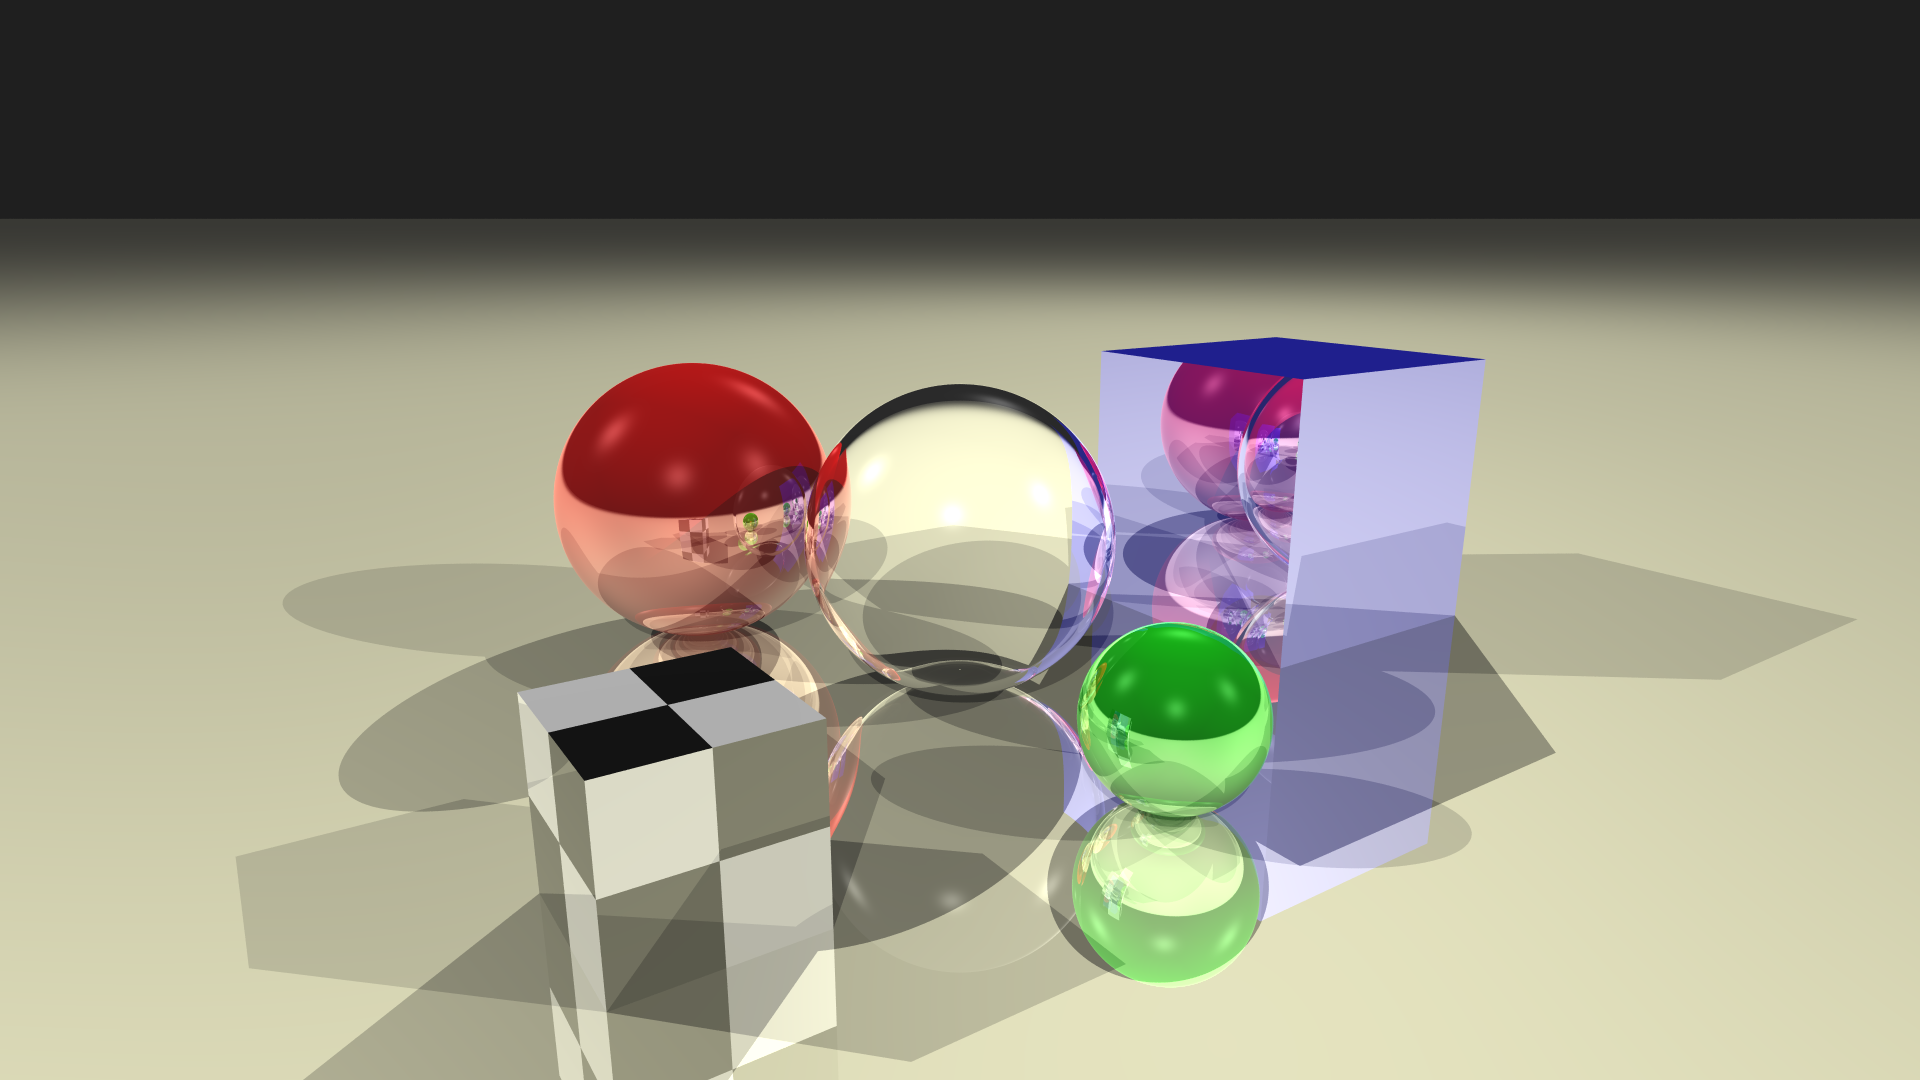
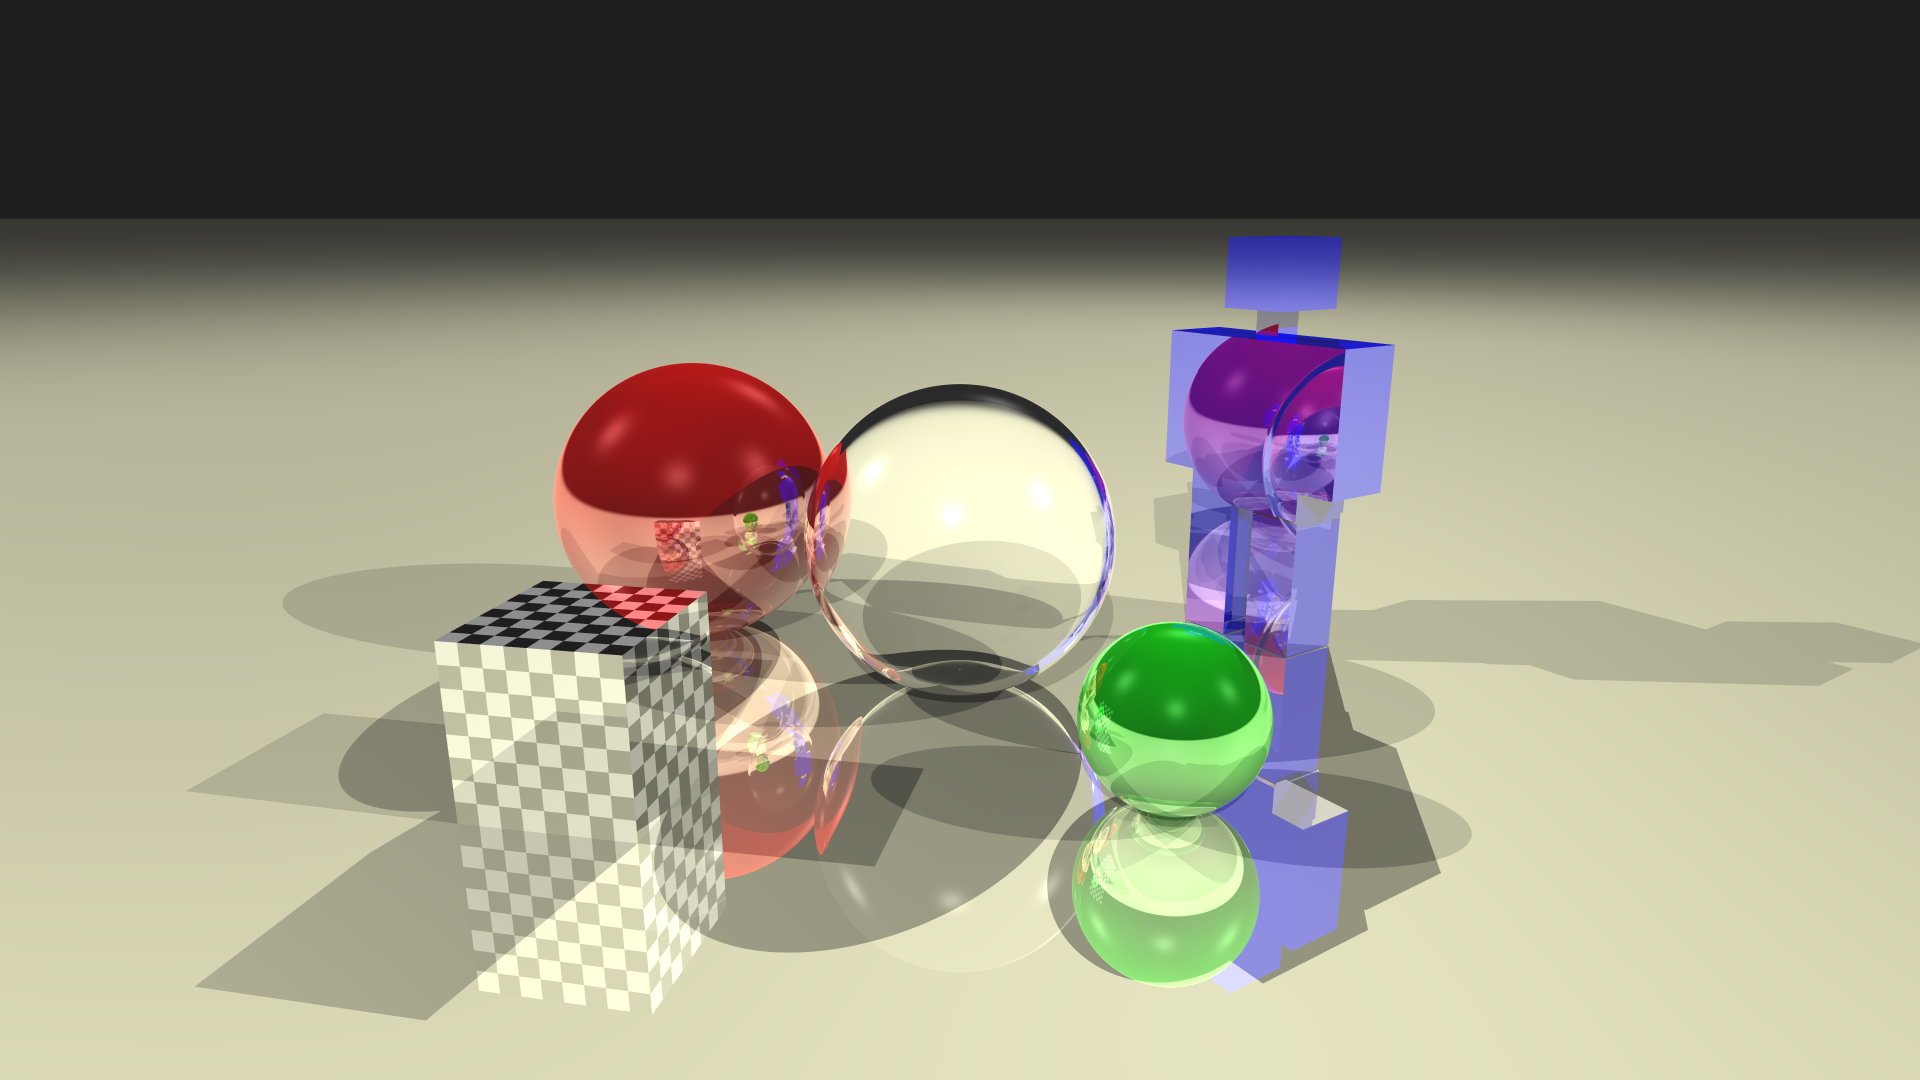
fix textures mapping incorrectly to geometry, update README.md, update example render

Changed region(s): [[0.0938, 0.2139, 1.0, 1.0]]

diff --git a/src/Main.java b/src/Main.java
@@ -1,5 +1,6 @@
 import light.Light;
 import material.*;
+import material.texture.Checker;
 import math.Vector3D;
 import object.*;
 import object.Object;
@@ -32,13 +33,12 @@ public class Main {
                 new Sphere(new Transform(new Vector3D(0, 0, -2), new Vector3D(0, 0, 0), new Vector3D(1, 1, 1)), 0.5D, new Glass(0.1D, 0.94)),
                 new Sphere(new Transform(new Vector3D(-0.5, 0, -3), new Vector3D(0, 0, 0), new Vector3D(1, 1, 1)), 0.5D, new Reflective(new Vector3D(1, 0, 0), 0.1D, 0.6D, 0.6D, 50, 0.2D, 0.617D, 2.63D)),
                 new Sphere(new Transform(new Vector3D(0, -0.25, -1), new Vector3D(0, 0, 0), new Vector3D(1, 1, 1)), 0.25D, new Reflective(new Vector3D(0, 1, 0), 0.1D, 0.6D, 0.6D, 50, 0.2D, 0.617D, 2.63D)),
-                //new Box(new Vector3D(1, -0.5, -1.5), new Vector3D(2, 0.5, -2.5), new Reflective(new Vector3D(0D, 0D, 1D), 0.1D, 0.4D, 0.5, 32, 0.3D, 0.177, 3.638)),
-                //new Box(new Vector3D(-1.5, -0.5, -1), new Vector3D(-1, 0, -1.5),  new Pattern(new Checker(2, 2, new Vector3D(0, 0, 0), new Vector3D(1, 1, 1)), 0.1D, 0.6D, 0.6D, 50, 0.6D, 2.485D, 3.433D)),
+                new Box(new Transform(new Vector3D(0.5, -0.25, -2.25), new Vector3D(0, 45, 0), new Vector3D(1, 1, 1)), new Vector3D(0.5, 0.5, 0.5), new TexturedMaterial(new Checker(8, 8, new Vector3D(0, 0, 0), new Vector3D(1, 1, 1)), 0.1D, 0.4D, 0.5, 32, 0.3D, 0.177, 3.638)),
                 new Plane(-0.5, new Vector3D(0, 1, 0), new Reflective(new Vector3D(255/255D, 253/255D, 208/255D), 0.1D, 0.6D, 0.5D, 4, 1, 0.617D, 2.63D)),
-                new Model(new Transform(new Vector3D(10, 10, -7), new Vector3D(-90, 0, 0), new Vector3D(0.1, 0.1, 0.1)), new Reflective(new Vector3D(0, 0, 1), 0.1D, 0.6D, 0.5D, 4, 1, 0.617D, 2.63D), Util.loadOBJ("./diamond.obj"), false)
+                new Model(new Transform(new Vector3D(10, 18, -8), new Vector3D(-90, 0, 0), new Vector3D(0.1, 0.1, 0.1)), new Reflective(new Vector3D(0, 0, 1), 0.1D, 0.6D, 0.5D, 4, 1, 0.617D, 2.63D), Util.loadOBJ("./man.obj"), false)
         };
 
         Scene scene = new Scene(camera, ambient, lights, objects, width, height);
-        scene.render("output.png", 1, 4, 8);
+        scene.render("output.png", 100, 16, 8);
     }
 }

diff --git a/src/Scene.java b/src/Scene.java
@@ -26,7 +26,7 @@ public class Scene {
     private final int width;
     private final int height;
     private static int threadCounter;
-    private static Lock lock = new ReentrantLock();
+    private static final Lock lock = new ReentrantLock();
 
     public Scene(Camera camera, Light ambient, Light[] lights, Object[] objects, int width, int height) {
         this.camera = camera;
@@ -82,7 +82,7 @@ public class Scene {
             printProgress();
         }
 
-        public void printProgress() {
+        private void printProgress() {
             lock.lock();
             threadCounter--;
             int progress = (int) (((((width * height) - threadCounter) / (double) (width * height))) * 100);

diff --git a/src/object/Object.java b/src/object/Object.java
@@ -47,6 +47,11 @@ public abstract class Object implements IObject {
         return new Vector3D(normalWS.x, normalWS.y, normalWS.z).normalize();
     }
 
+    public static Vector3D transformPointToOS(Vector3D point, Matrix4D inverseTransformMatrix) {
+        Vector4D normalWS = new Vector4D(point.x, point.y, point.z, 1);
+        Vector4D pointOS = normalWS.mult(inverseTransformMatrix);
+        return new Vector3D(pointOS.x, pointOS.y, pointOS.z);
+    }
     public Material getMaterial() {
         return material;
     }

diff --git a/src/material/texture/Texture.java b/src/material/texture/Texture.java
@@ -19,7 +19,7 @@ public class Texture {
     }
 
     public Vector3D textureAt(Object object, Vector3D point) {
-        Vector2D map = object.mapTexture(point);
+        Vector2D map = object.mapTexture(Object.transformPointToOS(point, object.getInverseTransformMatrix()));
         return getColorAt(map.x, map.y);
     }
 

diff --git a/README.md b/README.md
@@ -7,9 +7,56 @@ A simple yet powerful ray tracer implemented in Java. RayDream creates realistic
 ## Features
 
 - **Ray Tracing Basics:** Implements fundamental ray tracing algorithms, including ray-object intersection, reflection, refraction, and shading.
+- **Scene Description:** Define scenes by programmatically constructing objects and lights.
 - **Support for Basic Shapes:** Supports rendering of basic geometric shapes such as spheres and boxes.
+- **Model Support:** Supports rendering of models in the wavefront obj format.
 - **Materials and Textures:** Assign materials and textures to objects to add realism to a scene.
 - **Antialiasing:** Reduces aliasing artifacts with built-in sampling techniques.
+- **Parallel Rendering:** Utilizes multi-threading for faster rendering of complex scenes.
+
+## Usage
+RayDream is designed to be easy to use while still providing flexibility for advanced users. Here's a basic example of how to render a scene using RayDream:
+```java
+import light.Light;
+import material.*;
+import math.Vector3D;
+import object.*;
+import object.Object;
+
+import java.io.IOException;
+
+public class Main {
+    public static void main(String[] args) throws IOException {
+        int width = 1920;
+        int height = 1080;
+
+        Camera camera = new Camera(
+                new Vector3D(-2, 1, 1),
+                new Vector3D(0, 0, -2),
+                50,
+                width,
+                height
+        );
+
+        Light ambient = new Light(new Vector3D(), new Vector3D(1, 1, 1), 1);
+        Light[] lights = {
+                new Light(new Vector3D(-10, 10, -10), new Vector3D(1, 1, 1), 10D),
+                new Light(new Vector3D(-10, 10, 10), new Vector3D(1, 1, 1), 10D),
+                new Light(new Vector3D(10, 10, -10), new Vector3D(1, 1, 1), 10D),
+                new Light(new Vector3D(10, 10, 10), new Vector3D(1, 1, 1), 10D)
+        };
+
+        Object[] objects = new Object[]{
+                new Sphere(new Transform(new Vector3D(0, 0, -2), new Vector3D(0, 0, 0), new Vector3D(1, 1, 1)), 0.5D, new Glass(0.1D, 0.94)),
+                new Sphere(new Transform(new Vector3D(-0.5, 0, -3), new Vector3D(0, 0, 0), new Vector3D(1, 1, 1)), 0.5D, new Reflective(new Vector3D(1, 0, 0), 0.1D, 0.6D, 0.6D, 50, 0.2D, 0.617D, 2.63D)),
+                new Plane(-0.5, new Vector3D(0, 1, 0), new Reflective(new Vector3D(255 / 255D, 253 / 255D, 208 / 255D), 0.1D, 0.6D, 0.5D, 4, 1, 0.617D, 2.63D))
+        };
+
+        Scene scene = new Scene(camera, ambient, lights, objects, width, height);
+        scene.render("output.png", 10, 8, 8);
+    }
+}
+```
 
 ## Contributions
 
@@ -32,3 +79,4 @@ Resources used for this project.
 * [Ray Tracer Challenge: Texture Mapping](http://raytracerchallenge.com/bonus/texture-mapping.html)
 * [Ray-plane Intersection Princeton Slide](https://www.cs.princeton.edu/courses/archive/fall00/cs426/lectures/raycast/sld017.htm)
 * [Scratchapixel: Ray-Tracing: Rendering a Triangle](https://www.scratchapixel.com/lessons/3d-basic-rendering/ray-tracing-rendering-a-triangle/barycentric-coordinates.html)
+* [Graphics Compendium Raytracing Chapter 34: Transformations](https://graphicscompendium.com/raytracing/12-transformations)
